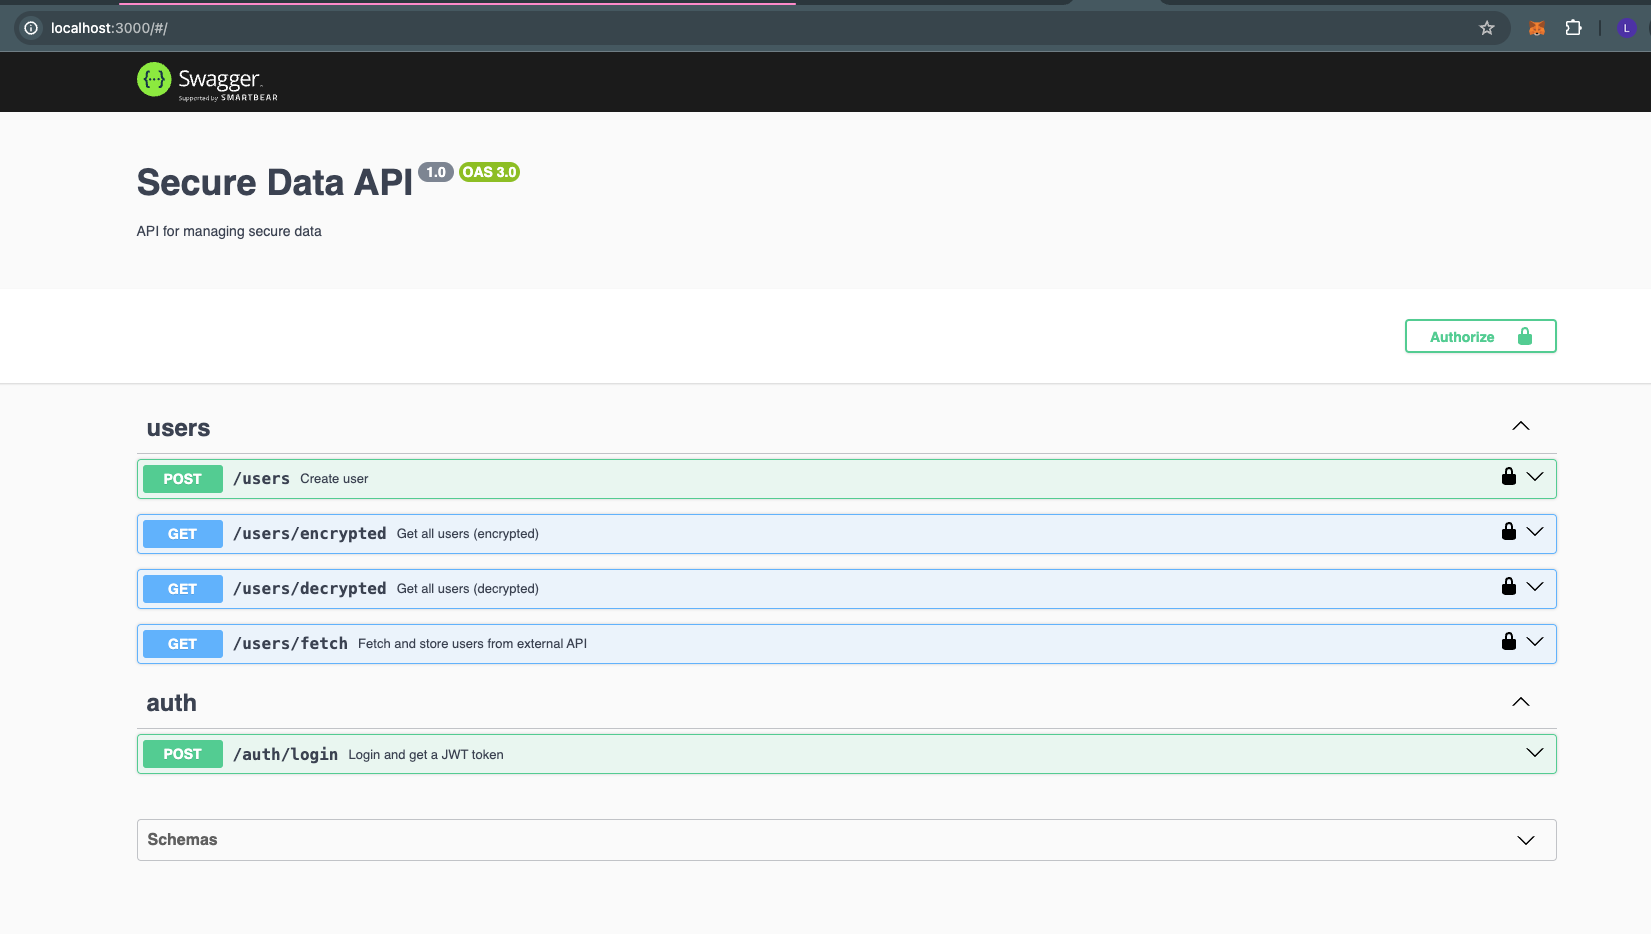
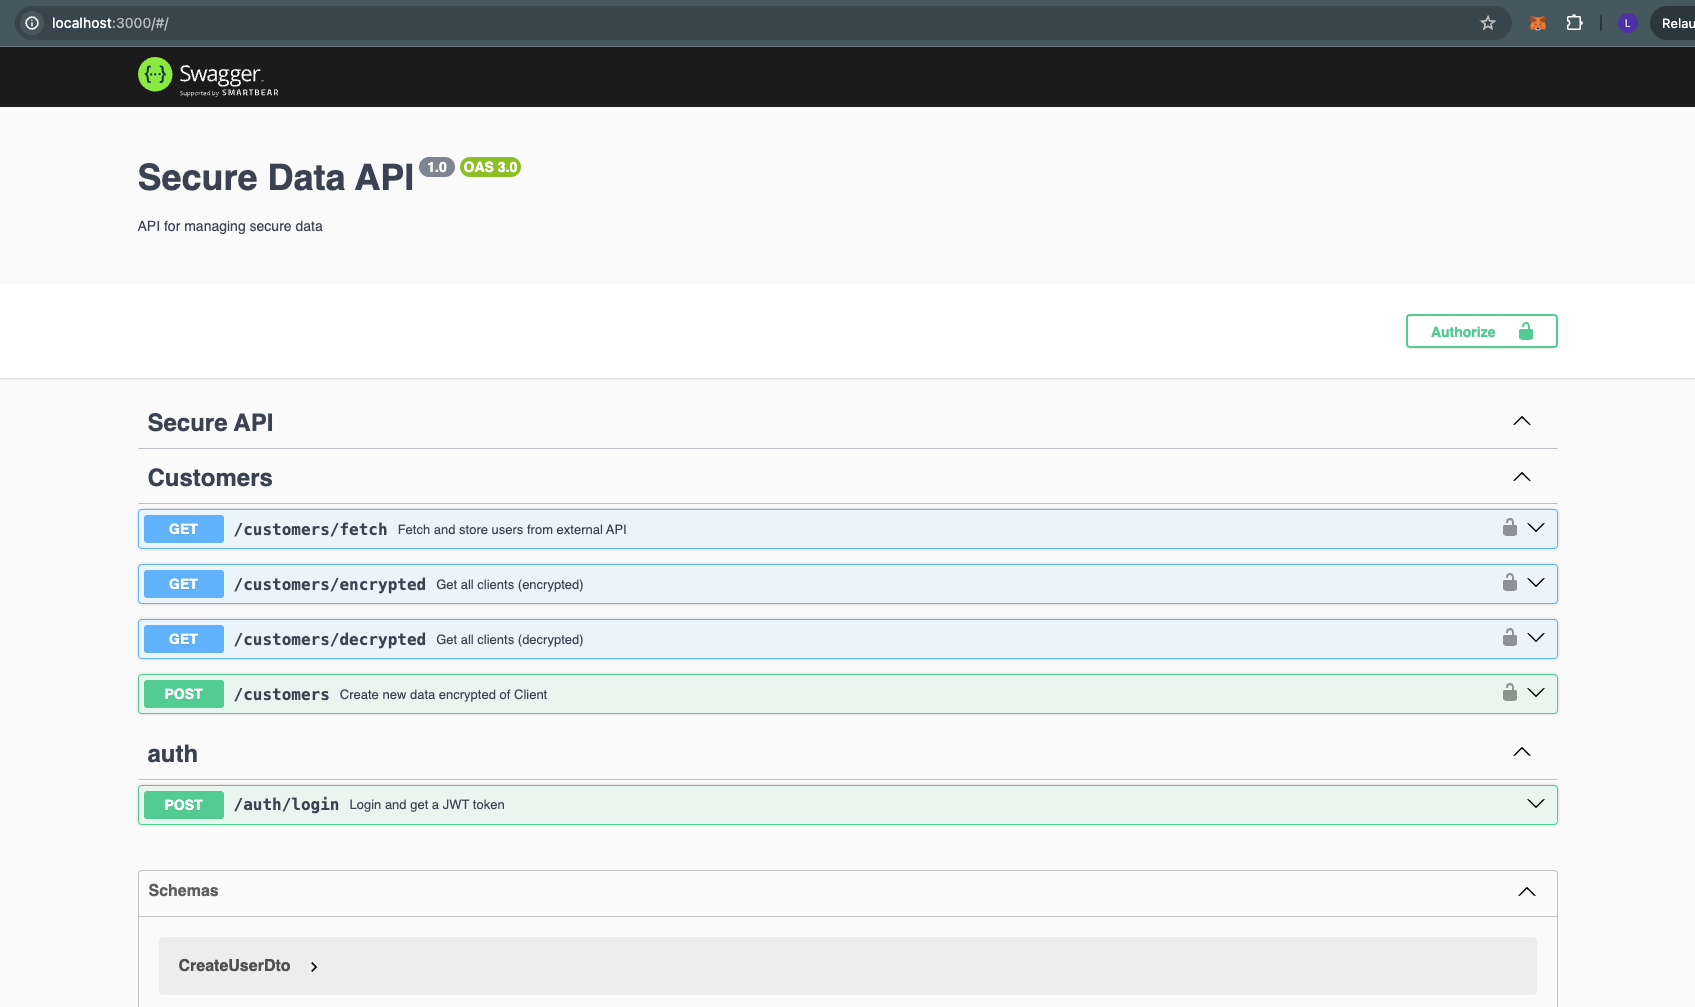
update path

diff --git a/src/users/user.controller.ts b/src/users/user.controller.ts
@@ -1,36 +1,70 @@
-import { Controller, Get, Post, Body, UseGuards, Headers, UnauthorizedException } from '@nestjs/common';
+import {
+  Controller,
+  Get,
+  Post,
+  Body,
+  UseGuards,
+  Headers,
+  UnauthorizedException,
+} from '@nestjs/common';
 import { UsersService } from './user.service';
 import { User } from './user.schema';
-import { ApiTags, ApiOperation, ApiResponse, ApiBody, ApiBearerAuth, ApiHeader } from '@nestjs/swagger';
+import {
+  ApiTags,
+  ApiOperation,
+  ApiResponse,
+  ApiBody,
+  ApiBearerAuth,
+  ApiHeader,
+} from '@nestjs/swagger';
 import { JwtAuthGuard } from '../auth/jwt-auth.guard';
 import * as bcrypt from 'bcryptjs';
+import { CreateUserDto } from 'src/dto/create-user.dt';
 
-@ApiTags('users')
+@ApiTags('Customers')
 @ApiBearerAuth('access-token')
-@Controller('users')
+@Controller('customers')
 export class UsersController {
   constructor(private readonly usersService: UsersService) {}
 
-  @Post()
-  @ApiOperation({ summary: 'Create user' })
-  @ApiResponse({ status: 201, description: 'The user has been successfully created.' })
-  @ApiResponse({ status: 403, description: 'Forbidden.' })
-  @ApiBody({ type: User })
-  async create(@Body() createUserDto: User) {
-    return this.usersService.create(createUserDto);
-  }
-
   @UseGuards(JwtAuthGuard)
-  @Get('encrypted')
-  @ApiOperation({ summary: 'Get all users (encrypted)' })
-  @ApiResponse({ status: 200, description: 'Return all users with encrypted data.' })
+  @Get('fetch')
+  @ApiOperation({ summary: 'Fetch and store users from external API' })
+  @ApiResponse({
+    status: 200,
+    description: 'Users fetched and stored successfully.',
+  })
   @ApiHeader({
     name: 'x-password',
     description: 'Password header',
   })
-  async findAllEncrypted(@Headers('x-password') password: string): Promise<User[]> {
+  async fetchAndStoreUsers(
+    @Headers('x-password') password: string,
+  ): Promise<any> {
     const passwordHash = process.env.PASSWORD_HASH;
-    if (!await bcrypt.compare(password, passwordHash)) {
+    if (!(await bcrypt.compare(password, passwordHash))) {
+      throw new UnauthorizedException('Invalid password');
+    }
+    await this.usersService.fetchAndStoreUsers();
+    return { message: 'Users fetched and stored successfully' };
+  }
+
+  @UseGuards(JwtAuthGuard)
+  @Get('encrypted')
+  @ApiOperation({ summary: 'Get all clients (encrypted)' })
+  @ApiResponse({
+    status: 200,
+    description: 'Return all data of clients with encrypted data.',
+  })
+  @ApiHeader({
+    name: 'x-password',
+    description: 'Password header',
+  })
+  async findAllEncrypted(
+    @Headers('x-password') password: string,
+  ): Promise<User[]> {
+    const passwordHash = process.env.PASSWORD_HASH;
+    if (!(await bcrypt.compare(password, passwordHash))) {
       throw new UnauthorizedException('Invalid password');
     }
     return this.usersService.findAllEncrypted();
@@ -38,8 +72,11 @@ export class UsersController {
 
   @UseGuards(JwtAuthGuard)
   @Get('decrypted')
-  @ApiOperation({ summary: 'Get all users (decrypted)' })
-  @ApiResponse({ status: 200, description: 'Return all users with decrypted data.' })
+  @ApiOperation({ summary: 'Get all clients (decrypted)' })
+  @ApiResponse({
+    status: 200,
+    description: 'Return all data of clients with decrypted data.',
+  })
   @ApiHeader({
     name: 'x-password',
     description: 'Password header',
@@ -48,15 +85,20 @@ export class UsersController {
     name: 'x-second-password',
     description: 'Second Password header',
   })
-  async findAllDecrypted(@Headers('x-password') password: string, @Headers('x-second-password') secondPassword: string): Promise<any[]> {
+  async findAllDecrypted(
+    @Headers('x-password') password: string,
+    @Headers('x-second-password') secondPassword: string,
+  ): Promise<any[]> {
     const passwordHash = process.env.PASSWORD_HASH;
     const secondPasswordHash = process.env.SECOND_PASSWORD_HASH;
     if (!passwordHash || !secondPasswordHash) {
       throw new UnauthorizedException('Passwords are not configured correctly');
     }
-    
 
-    if (!await bcrypt.compare(password, passwordHash) || !await bcrypt.compare(secondPassword, secondPasswordHash)) {
+    if (
+      !(await bcrypt.compare(password, passwordHash)) ||
+      !(await bcrypt.compare(secondPassword, secondPasswordHash))
+    ) {
       throw new UnauthorizedException('Invalid password');
     }
 
@@ -64,19 +106,19 @@ export class UsersController {
   }
 
   @UseGuards(JwtAuthGuard)
-  @Get('fetch')
-  @ApiOperation({ summary: 'Fetch and store users from external API' })
-  @ApiResponse({ status: 200, description: 'Users fetched and stored successfully.' })
+  @Post()
+  @ApiOperation({ summary: 'Create new data encrypted of Client' })
+  @ApiResponse({
+    status: 201,
+    description: 'The user has been successfully created.',
+  })
+  @ApiResponse({ status: 403, description: 'Forbidden.' })
+  @ApiBody({ type: CreateUserDto })
   @ApiHeader({
     name: 'x-password',
     description: 'Password header',
   })
-  async fetchAndStoreUsers(@Headers('x-password') password: string): Promise<any> {
-    const passwordHash = process.env.PASSWORD_HASH;
-    if (!await bcrypt.compare(password, passwordHash)) {
-      throw new UnauthorizedException('Invalid password');
-    }
-    await this.usersService.fetchAndStoreUsers();
-    return { message: 'Users fetched and stored successfully' };
+  async create(@Body() createUserDto: User) {
+    return this.usersService.create(createUserDto);
   }
 }

diff --git a/src/dto/create-user.dt.ts b/src/dto/create-user.dt.ts
@@ -1,0 +1,99 @@
+import { IsString, IsNotEmpty } from 'class-validator';
+import { ApiProperty } from '@nestjs/swagger';
+
+export class CreateUserDto {
+  @ApiProperty()
+  @IsString()
+  @IsNotEmpty()
+  fec_alta: string;
+
+  @ApiProperty()
+  @IsString()
+  @IsNotEmpty()
+  user_name: string;
+
+  @ApiProperty()
+  @IsString()
+  @IsNotEmpty()
+  codigo_zip: string;
+
+  @ApiProperty()
+  @IsString()
+  @IsNotEmpty()
+  credit_card_num: string;
+
+  @ApiProperty()
+  @IsString()
+  @IsNotEmpty()
+  credit_card_ccv: string;
+
+  @ApiProperty()
+  @IsString()
+  @IsNotEmpty()
+  cuenta_numero: string;
+
+  @ApiProperty()
+  @IsString()
+  @IsNotEmpty()
+  direccion: string;
+
+  @ApiProperty()
+  @IsString()
+  @IsNotEmpty()
+  geo_latitud: string;
+
+  @ApiProperty()
+  @IsString()
+  @IsNotEmpty()
+  geo_longitud: string;
+
+  @ApiProperty()
+  @IsString()
+  @IsNotEmpty()
+  color_favorito: string;
+
+  @ApiProperty()
+  @IsString()
+  @IsNotEmpty()
+  foto_dni: string;
+
+  @ApiProperty()
+  @IsString()
+  @IsNotEmpty()
+  ip: string;
+
+  @ApiProperty()
+  @IsString()
+  @IsNotEmpty()
+  auto: string;
+
+  @ApiProperty()
+  @IsString()
+  @IsNotEmpty()
+  auto_modelo: string;
+
+  @ApiProperty()
+  @IsString()
+  @IsNotEmpty()
+  auto_tipo: string;
+
+  @ApiProperty()
+  @IsString()
+  @IsNotEmpty()
+  auto_color: string;
+
+  @ApiProperty()
+  @IsString()
+  @IsNotEmpty()
+  cantidad_compras_realizadas: string;
+
+  @ApiProperty()
+  @IsString()
+  @IsNotEmpty()
+  avatar: string;
+
+  @ApiProperty()
+  @IsString()
+  @IsNotEmpty()
+  fec_birthday: string;
+}

diff --git a/src/users/user.service.ts b/src/users/user.service.ts
@@ -21,12 +21,16 @@ export class UsersService {
     this.iv = Buffer.from(iv, 'hex');
   }
 
+
   async create(user: User): Promise<User> {
-    const encryptedUser = this.encryptUserData(user.toObject());
+    const encryptedUser = this.encryptUserData(user);
     const createdUser = new this.userModel(encryptedUser);
     return createdUser.save();
   }
-
+    
+      async findOne(username: string): Promise<User | undefined> {
+        return this.userModel.findOne({ username }).exec();
+      }
   async findAll(): Promise<User[]> {
     const users = await this.userModel.find().exec();
     return users.map(user => this.decryptUserData(user.toObject()));

diff --git a/src/main.ts b/src/main.ts
@@ -9,7 +9,7 @@ async function bootstrap() {
     .setTitle('Secure Data API')
     .setDescription('API for managing secure data')
     .setVersion('1.0')
-    .addTag('users')
+    .addTag('Secure API')
     .addApiKey(
       { type: 'apiKey', name: 'x-password', in: 'header' },
       'password',
